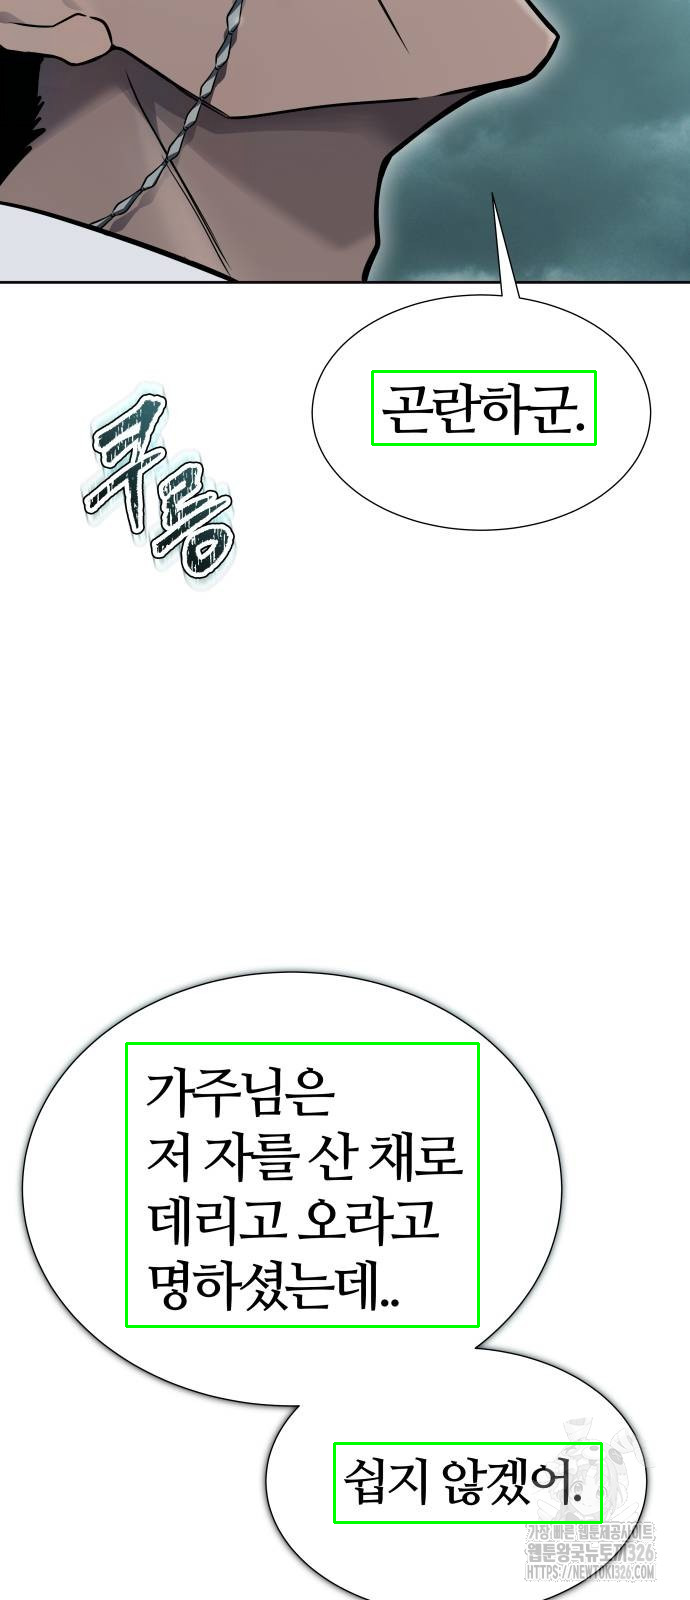
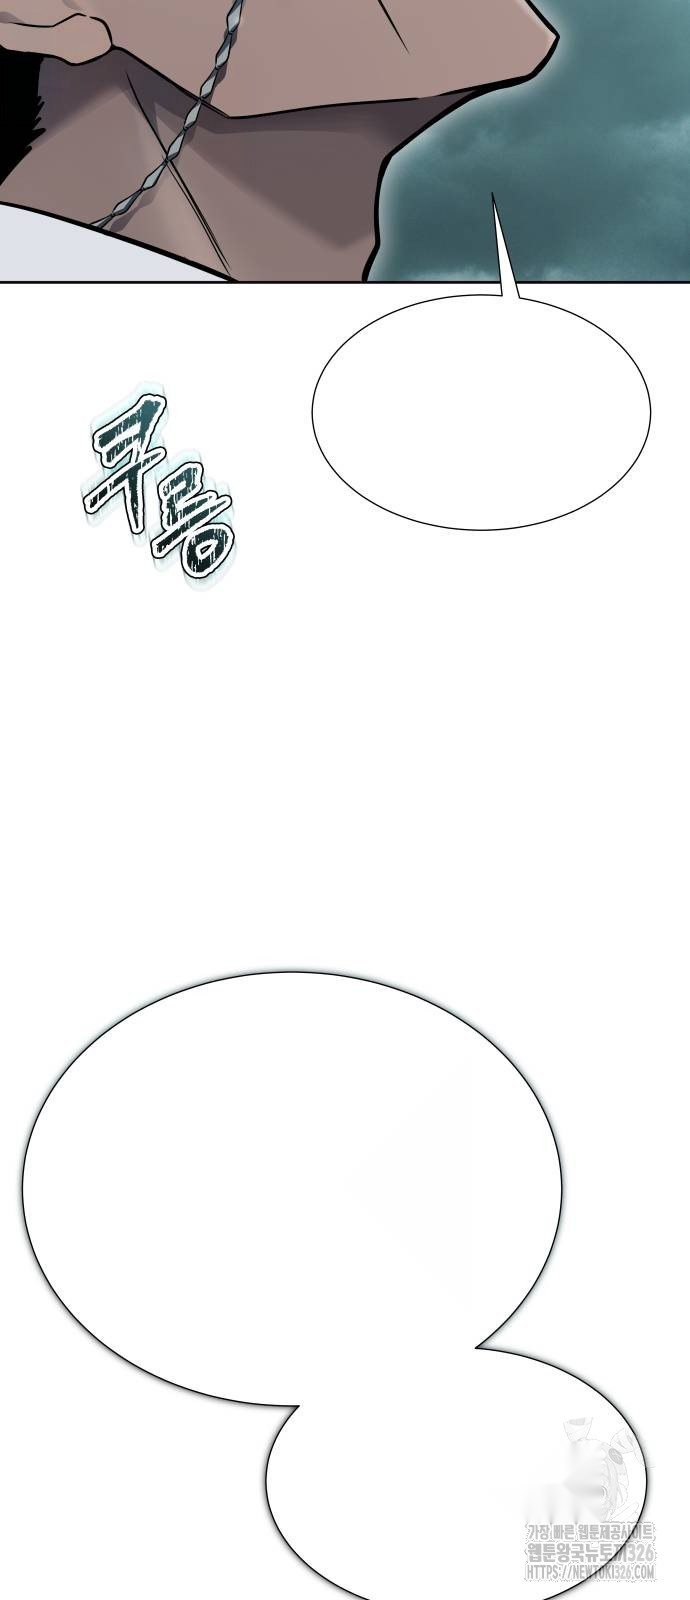
inpaint added ocr crop size too large

diff --git a/test.py b/test.py
@@ -14,6 +14,7 @@ font_path = 'T:\Projects\speechBubbleOCR\ComicNeue\ComicNeue-Regular.ttf'  # Spe
 
 # Load the YOLO model for speech bubble detection
 model = YOLO("comic-speech-bubble-detector.pt")
+model = model.to('cpu')  # Use CPU for inference
 text_segmentation = YOLO('comic-text-segmenter.pt')
 
 # Ensure directories exist
@@ -32,7 +33,12 @@ def draw_green_boxes(image_path, bboxes):
         x1, y1, x2, y2 = [int(coord) for coord in bbox.xyxy[0].tolist()]
         
         # Draw a green rectangle around the text area
-        cv2.rectangle(image, (x1, y1), (x2, y2), (0, 255, 0), 2)  # 2 is the thickness of the line
+        # cv2.rectangle(image, (x1, y1), (x2, y2), (255, 255, 255), 2)  # 2 is the thickness of the line
+        # Create a mask for the speech bubble area
+        mask = np.zeros_like(image)
+        cv2.rectangle(mask, (x1, y1), (x2, y2), (255, 255, 255), -1)
+        # Inpaint the image to white within the speech bubble area
+        image = cv2.inpaint(image, mask[:, :, 0], 3, cv2.INPAINT_TELEA)
 
     # Save or display the image
     cv2.imwrite('output_with_green_boxes.png', image)
@@ -45,19 +51,32 @@ def draw_green_boxes(image_path, bboxes):
 # Here, you would pass the actual bounding boxes and image path to the function
 
 
-def crop_and_ocr(image_path, bboxes):
-    """Crop the speech bubbles from the image based on bboxes and perform OCR."""
+def crop_and_ocr(image_path, bboxes, output_file):
+    """Crop the speech bubbles from the image based on bboxes, perform OCR, and save the text into a file."""
     image = cv2.imread(image_path)
     texts = []
-    for bbox in bboxes:
+    for i, bbox in enumerate(bboxes):
         # Coordinates from the bounding box
         x1, y1, x2, y2 = [int(coord) for coord in bbox.xyxy[0].tolist()]
         # Crop the speech bubble area
         cropped_image = image[y1:y2, x1:x2]
+        # cv2.imshow('Cropped Image', cropped_image)
+        # cv2.waitKey(0)
+        # cv2.destroyAllWindows()
         # Perform OCR on the cropped area
         result = reader.readtext(cropped_image, detail=1)
         text = " ".join([text for (_, text, _) in result])
         texts.append(text)
+    
+        # Save the cropped image with a unique identifier
+        cropped_image_path = os.path.join(output_file, f"{os.path.splitext('crop')[0]}_{i}.png")
+        cv2.imwrite(cropped_image_path, cropped_image)
+    
+    # Save the texts into a file
+    raw_text_path = os.path.join(output_file, f"{os.path.splitext('2_img')[0]}_raw.txt")
+    with open(raw_text_path, 'w', encoding='utf-8') as file:
+        file.write('\n'.join(texts))
+    
     return texts
 
 def process_images(input_folder, masked_folder, output_folder):
@@ -71,7 +90,7 @@ def process_images(input_folder, masked_folder, output_folder):
             result = results[0]  # Assuming one image is processed
 
             # Crop and OCR speech bubbles
-            texts = crop_and_ocr(image_path, result.boxes)
+            texts = crop_and_ocr(image_path, result.boxes, output_folder)
 
             # Translate the text to English
             translated_texts = [GoogleTranslator(source='auto', target='en').translate(text) for text in texts]
